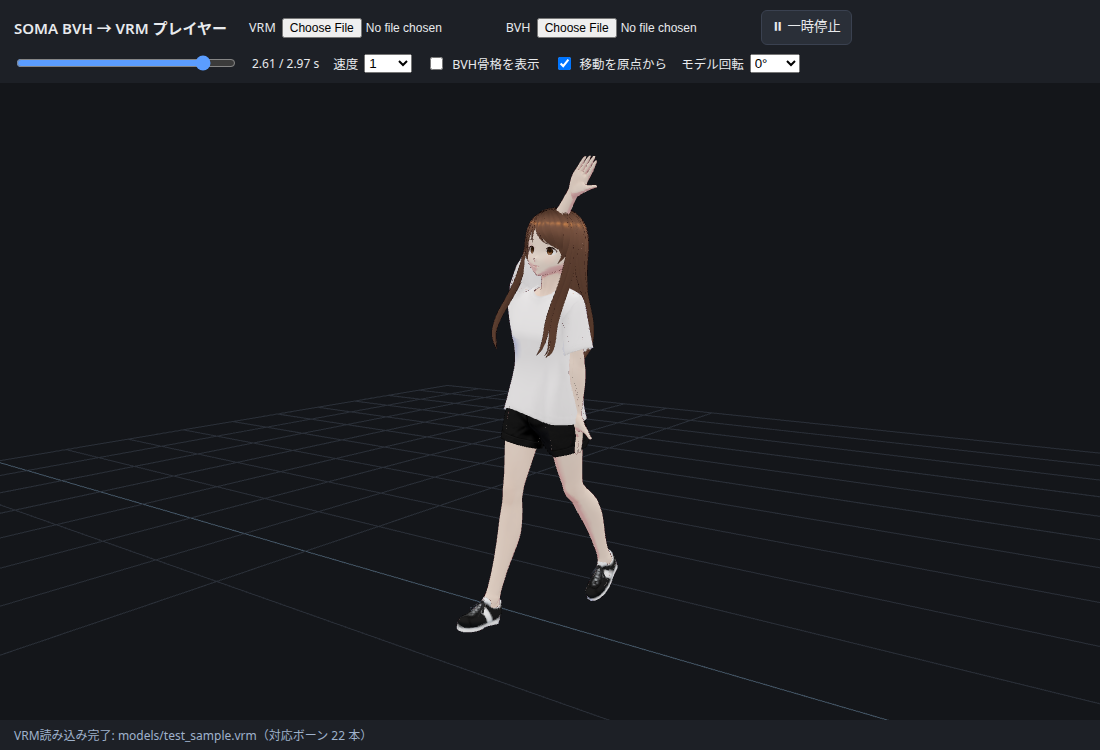
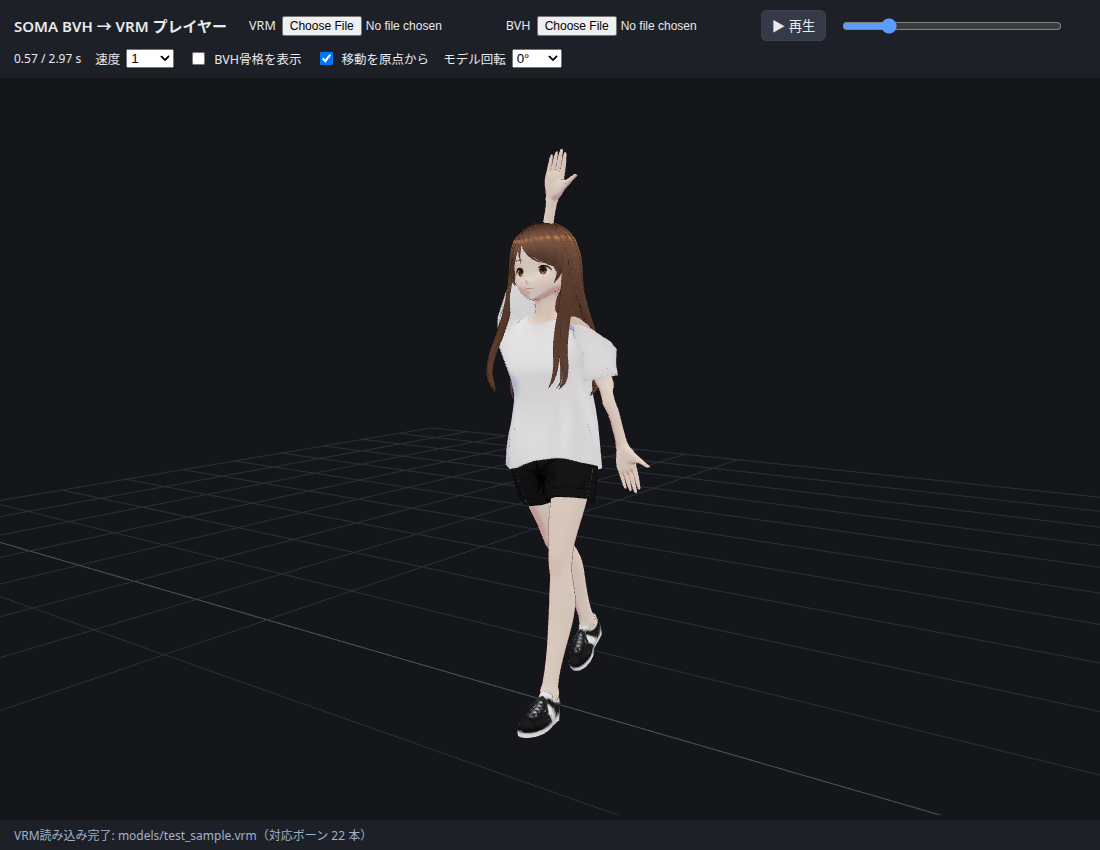
Fix backwards-bending elbows: bend-plane frames + sample fix
Two causes for the raised arm looking wrong:
1. The bundled sample itself folded the waving forearm over the head
   (forearm z sign): with the upper arm at -110 deg the forearm needs
   a positive z to open upward. Fixed in tools/make_sample_wave.py
   and regenerated motion/sample_wave.bvh.
2. Limb twist came from body axes, whose secondary axis flips as a
   bone passes the switch threshold. Limb frames now use the bend
   plane (hinge axis) of the bone chain, with an anatomical virtual
   bend when the chain is straight, applied identically on the BVH
   side and the VRM rest rig. Verified A/B at the same frames with
   the pixiv sample VRM; walk retarget unchanged.

diff --git a/app.js b/app.js
@@ -13,8 +13,9 @@
 // This transfers the absolute pose (e.g. arms hanging down while walking),
 // unlike bind-pose delta methods: the MotionBricks bind pose is a straight
 // stick along +X, so deltas from bind contain a spurious lying->standing
-// rotation. Known limitation: twist around each bone's own axis is only
-// approximated, because the frame comes from body-level axes.
+// rotation. For hinge chains (arms / legs) the frame's twist comes from the
+// actual bend plane of the two bones, so elbows and knees bend the right
+// way; other joints still derive twist from body-level axes (approximate).
 import * as THREE from 'three';
 import { OrbitControls } from 'three/addons/controls/OrbitControls.js';
 import { GLTFLoader } from 'three/addons/loaders/GLTFLoader.js';
@@ -52,6 +53,7 @@ addEventListener('resize', resize);
 
 // ---------------------------------------------------------------- BVH motion
 let bvh = null, bvhFirst = null;
+let parentNameOf = {};
 const skelGroup = new THREE.Group();
 scene.add(skelGroup);
 let skelLines = null;
@@ -59,6 +61,10 @@ let skelLines = null;
 async function loadBVHText(text, label) {
   bvh = parseBVH(text);
   bvhFirst = sampleWorld(bvh, 0);
+  parentNameOf = {};
+  bvh.joints.forEach((j) => {
+    parentNameOf[j.name] = j.parent >= 0 ? bvh.joints[j.parent].name : null;
+  });
   buildSkeletonLines();
   const seek = document.getElementById('seek');
   seek.max = bvh.frameCount - 1;
@@ -101,9 +107,26 @@ function bodyAxes(getPos) {
   return { left, forward };
 }
 
-// Quaternion of the geometric frame: Y = bone dir, X = orthogonal secondary.
-function geoQuat(jointPos, boneDirVec, axes) {
+// Quaternion of the geometric frame: Y = bone dir, Z = frame normal.
+//
+// For limb joints the normal comes from the chain's bend plane (see
+// bendNormal): it is the hinge axis of the elbow / knee / ankle, so the
+// transferred twist follows which way the hinge actually faces. Deriving
+// twist from body axes instead made raised arms twist the wrong way
+// (the secondary axis flips when a bone passes the switch threshold).
+// Other joints (spine, head, hands) keep the body-axis construction.
+function geoQuat(jointPos, boneDirVec, axes, planeN = null) {
   const y = boneDirVec.clone().normalize();
+  if (planeN) {
+    const z = planeN.clone().addScaledVector(y, -planeN.dot(y));
+    if (z.lengthSq() > 1e-6) {
+      z.normalize();
+      const x = new THREE.Vector3().crossVectors(y, z);
+      const zz = new THREE.Vector3().crossVectors(x, y);
+      const m = new THREE.Matrix4().makeBasis(x, y, zz);
+      return new THREE.Quaternion().setFromRotationMatrix(m);
+    }
+  }
   const s = Math.abs(y.dot(axes.left)) < 0.8 ? axes.left : axes.forward;
   const x = s.clone().addScaledVector(y, -s.dot(y)).normalize();
   const z = new THREE.Vector3().crossVectors(x, y);
@@ -111,32 +134,74 @@ function geoQuat(jointPos, boneDirVec, axes) {
   return new THREE.Quaternion().setFromRotationMatrix(m);
 }
 
+// Plane normal (hinge axis) from two bone directions. When the chain is
+// nearly straight the plane is undefined, so fall back to a virtual bend:
+// the direction the next bone would point if the hinge bent anatomically
+// (forearm bends towards body-forward, shin towards body-backward),
+// passed as virtSign * axes.forward. Source and target use the same rule,
+// so the frames stay consistent even at a straight rest pose (T-pose).
+function bendNormal(d1, d2, ownDir, axes, virtSign) {
+  const n = new THREE.Vector3().crossVectors(
+    d1.clone().normalize(), d2.clone().normalize());
+  if (n.length() > 0.05) return n;
+  if (virtSign) {
+    const virt = axes.forward.clone().multiplyScalar(virtSign);
+    const nv = new THREE.Vector3().crossVectors(ownDir.clone().normalize(), virt);
+    if (nv.length() > 0.05) return nv;
+  }
+  return null;
+}
+
 // ------------------------------------------------------------------------ VRM
-// [SOMA BVH joint, VRM humanoid bone, primary child BVH joint (null = incoming dir)]
+// [SOMA BVH joint, VRM humanoid bone, primary child BVH joint (null =
+// incoming dir), grandchild BVH joint, bend mode, virtual-bend sign]
+// bend mode: 'next' = plane of (own bone, next bone) for shoulder/hip and
+// upper arm/leg; 'in' = plane of (incoming bone, own bone) for the hinge
+// joints themselves (forearm, shin, foot); null = body-axis frame.
 const MAP = [
-  ['Hips', 'hips', 'Spine1'],
-  ['Spine1', 'spine', 'Spine2'],
-  ['Spine2', 'chest', 'Chest'],
-  ['Chest', 'upperChest', 'Neck1'],
-  ['Neck1', 'neck', 'Neck2'],
-  ['Head', 'head', null],
-  ['LeftShoulder', 'leftShoulder', 'LeftArm'],
-  ['LeftArm', 'leftUpperArm', 'LeftForeArm'],
-  ['LeftForeArm', 'leftLowerArm', 'LeftHand'],
-  ['LeftHand', 'leftHand', null],
-  ['RightShoulder', 'rightShoulder', 'RightArm'],
-  ['RightArm', 'rightUpperArm', 'RightForeArm'],
-  ['RightForeArm', 'rightLowerArm', 'RightHand'],
-  ['RightHand', 'rightHand', null],
-  ['LeftLeg', 'leftUpperLeg', 'LeftShin'],
-  ['LeftShin', 'leftLowerLeg', 'LeftFoot'],
-  ['LeftFoot', 'leftFoot', 'LeftToeBase'],
-  ['LeftToeBase', 'leftToes', null],
-  ['RightLeg', 'rightUpperLeg', 'RightShin'],
-  ['RightShin', 'rightLowerLeg', 'RightFoot'],
-  ['RightFoot', 'rightFoot', 'RightToeBase'],
-  ['RightToeBase', 'rightToes', null],
+  ['Hips', 'hips', 'Spine1', null, null, 0],
+  ['Spine1', 'spine', 'Spine2', null, null, 0],
+  ['Spine2', 'chest', 'Chest', null, null, 0],
+  ['Chest', 'upperChest', 'Neck1', null, null, 0],
+  ['Neck1', 'neck', 'Neck2', null, null, 0],
+  ['Head', 'head', null, null, null, 0],
+  ['LeftShoulder', 'leftShoulder', 'LeftArm', 'LeftForeArm', 'next', 1],
+  ['LeftArm', 'leftUpperArm', 'LeftForeArm', 'LeftHand', 'next', 1],
+  ['LeftForeArm', 'leftLowerArm', 'LeftHand', null, 'in', 1],
+  ['LeftHand', 'leftHand', null, null, null, 0],
+  ['RightShoulder', 'rightShoulder', 'RightArm', 'RightForeArm', 'next', 1],
+  ['RightArm', 'rightUpperArm', 'RightForeArm', 'RightHand', 'next', 1],
+  ['RightForeArm', 'rightLowerArm', 'RightHand', null, 'in', 1],
+  ['RightHand', 'rightHand', null, null, null, 0],
+  ['LeftLeg', 'leftUpperLeg', 'LeftShin', 'LeftFoot', 'next', -1],
+  ['LeftShin', 'leftLowerLeg', 'LeftFoot', 'LeftToeBase', 'in', -1],
+  ['LeftFoot', 'leftFoot', 'LeftToeBase', null, 'in', 1],
+  ['LeftToeBase', 'leftToes', null, null, null, 0],
+  ['RightLeg', 'rightUpperLeg', 'RightShin', 'RightFoot', 'next', -1],
+  ['RightShin', 'rightLowerLeg', 'RightFoot', 'RightToeBase', 'in', -1],
+  ['RightFoot', 'rightFoot', 'RightToeBase', null, 'in', 1],
+  ['RightToeBase', 'rightToes', null, null, null, 0],
 ];
+// humanoid bone -> grandchild humanoid bone (bend plane), when defined
+const DST_NEXT = {
+  leftShoulder: 'leftLowerArm', leftUpperArm: 'leftHand',
+  rightShoulder: 'rightLowerArm', rightUpperArm: 'rightHand',
+  leftUpperLeg: 'leftFoot', leftLowerLeg: 'leftToes',
+  rightUpperLeg: 'rightFoot', rightLowerLeg: 'rightToes',
+};
+// humanoid hinge bone -> its parent humanoid bone (incoming direction)
+const DST_PARENT_BONE = {
+  leftLowerArm: 'leftUpperArm', rightLowerArm: 'rightUpperArm',
+  leftLowerLeg: 'leftUpperLeg', rightLowerLeg: 'rightUpperLeg',
+  leftFoot: 'leftLowerLeg', rightFoot: 'rightLowerLeg',
+};
+// humanoid bone -> [bend mode, virtual-bend sign] (mirrors MAP)
+const DST_BEND = {
+  leftShoulder: ['next', 1], leftUpperArm: ['next', 1], leftLowerArm: ['in', 1],
+  rightShoulder: ['next', 1], rightUpperArm: ['next', 1], rightLowerArm: ['in', 1],
+  leftUpperLeg: ['next', -1], leftLowerLeg: ['in', -1], leftFoot: ['in', 1],
+  rightUpperLeg: ['next', -1], rightLowerLeg: ['in', -1], rightFoot: ['in', 1],
+};
 // humanoid bone -> its primary child humanoid bone (null = incoming dir)
 const DST_CHILD = {
   hips: 'spine', spine: 'chest', chest: 'upperChest', upperChest: 'neck',
@@ -195,7 +260,7 @@ async function loadVRM(url, label) {
   }[k].clone()));
 
   rig = [];
-  for (const [srcName, boneName, srcChild] of MAP) {
+  for (const [srcName, boneName, srcChild, srcNext, bendMode, virtSign] of MAP) {
     const node = dstNode[boneName];
     if (!node) continue;
     const childName = childOf(boneName);
@@ -204,7 +269,20 @@ async function loadVRM(url, label) {
     else {
       boneDir = null; // incoming direction, resolved below from the parent node
     }
-    rig.push({ node, boneName, srcName, srcChild, childName, boneDir });
+    const nextName = DST_NEXT[boneName];
+    let nextDir = null;
+    if (nextName && childName && dstNode[nextName]) {
+      nextDir = dstPos[nextName].clone().sub(dstPos[childName]);
+    }
+    const pName = DST_PARENT_BONE[boneName];
+    let incomingDir = null;
+    if (pName && dstNode[pName]) {
+      incomingDir = dstPos[boneName].clone().sub(dstPos[pName]);
+    }
+    rig.push({
+      node, boneName, srcName, srcChild, srcNext, bendMode, virtSign,
+      childName, boneDir, nextDir, incomingDir,
+    });
   }
   // resolve incoming directions and rest frames
   const posOf = (boneName) => dstPos[boneName];
@@ -220,7 +298,13 @@ async function loadVRM(url, label) {
       r.boneDir = posOf(r.boneName).clone().sub(parentPos || new THREE.Vector3());
     }
     r.restQ = r.node.getWorldQuaternion(new THREE.Quaternion());
-    r.frameQ = geoQuat(posOf(r.boneName), r.boneDir, axes);
+    let frameN = null;
+    if (r.bendMode === 'next' && r.nextDir) {
+      frameN = bendNormal(r.boneDir, r.nextDir, r.boneDir, axes, r.virtSign);
+    } else if (r.bendMode === 'in' && r.incomingDir) {
+      frameN = bendNormal(r.incomingDir, r.boneDir, r.boneDir, axes, r.virtSign);
+    }
+    r.frameQ = geoQuat(posOf(r.boneName), r.boneDir, axes, frameN);
   }
   rig.hipsNode = dstNode.hips;
   rig.hipsRestPos = dstNode.hips.position.clone();
@@ -240,7 +324,18 @@ function applyPose(world) {
     let boneDir;
     if (r.srcChild && world[r.srcChild]) boneDir = V3(world[r.srcChild].pos).sub(jp);
     else boneDir = jp.clone().sub(V3(world[SRC_PARENT[r.srcName]].pos));
-    const aSrc = geoQuat(jp, boneDir, srcAxes);
+    let planeN = null;
+    if (r.bendMode === 'next' && r.srcNext && r.srcChild && world[r.srcNext] && world[r.srcChild]) {
+      const nd = V3(world[r.srcNext].pos).sub(V3(world[r.srcChild].pos));
+      planeN = bendNormal(boneDir, nd, boneDir, srcAxes, r.virtSign);
+    } else if (r.bendMode === 'in') {
+      const pn = parentNameOf[r.srcName];
+      if (pn && world[pn]) {
+        const incoming = jp.clone().sub(V3(world[pn].pos));
+        planeN = bendNormal(incoming, boneDir, boneDir, srcAxes, r.virtSign);
+      }
+    }
+    const aSrc = geoQuat(jp, boneDir, srcAxes, planeN);
     const targetWorldQ = aSrc.multiply(r.frameQ.clone().invert()).multiply(r.restQ);
     let parent = r.node.parent, parentQ = null;
     while (parent) {

diff --git a/tools/make_sample_wave.py b/tools/make_sample_wave.py
@@ -69,9 +69,13 @@ def pose(f):
     r["LeftArm"] = [-75 + 6 * s, 0, -8 * s]
     r["LeftForeArm"] = [-8, 0, 0]
     # right arm raised, waving (forearm oscillates fast)
+    # NOTE the sign: with the upper arm at about -110 deg, the forearm
+    # needs a *positive* z to open upward (hand above the elbow, waving).
+    # A negative z folds the forearm over the head, which reads as an
+    # elbow bending backwards.
     wave = math.sin(4 * t)
     r["RightArm"] = [-110 + 7 * wave, 0, 0]
-    r["RightForeArm"] = [-18 + 14 * wave, 0, 0]
+    r["RightForeArm"] = [24 + 13 * wave, 0, 0]
     hips_pos = (2.0 * s, 97.2 + 1.4 * abs(math.sin(t)), 0.0)
     r["Hips"] = [2.5 * s, 5 * s, 0]
     return r, hips_pos

diff --git a/README.md b/README.md
@@ -54,9 +54,13 @@ MotionBricks の同梱サンプルモーション（BVH/CSV）は
   MotionBricks 形式（位置チャンネルが絶対値）では Hips の高さが二重になるため自作した。
   Node で単体テスト可能（Python 版 FK とフレーム単位で一致することを確認済み）。
 - リターゲット … 「幾何フレーム」方式。各関節について、関節位置の幾何から
-  その場のフレーム（Y = 骨の向き、X = 体の左右方向から直交化）を毎フレーム作り、
-  VRM の正規化ヒューマノイドリグ（three-vrm）の静止姿勢で同じように作ったフレームと
-  対応づけて回転を転送する。腕が「下がった状態で振れる」のような絶対姿勢が転送できる。
+  その場のフレーム（Y = 骨の向き）を毎フレーム作り、VRM の正規化ヒューマノイド
+  リグ（three-vrm）の静止姿勢で同じように作ったフレームと対応づけて回転を転送する。
+  腕が「下がった状態で振れる」のような絶対姿勢が転送できる。
+  腕・脚の関節では、フレームのひねりを「2本の骨が張る平面（曲げ平面）の法線」から
+  決める。肘・膝のヒンジの向きに追従するので、腕を頭上に上げても肘が逆に
+  曲がって見えない。骨がほぼ真っ直ぐなときは、解剖学的な曲げ方向（前腕は前方、
+  脛は後方）で代用し、ソース側とターゲット側で同じ規則を使う。
   ※ モーション側のバインドポーズが寝た姿勢のような骨格（MotionBricks BVH 等）でも、
   幾何からフレームを作るので「横たわり→起立」の回転が混入しない。
 - ルート（Hips）の移動は、BVH の先頭フレームからの移動量を転送する。
@@ -65,7 +69,7 @@ MotionBricks の同梱サンプルモーション（BVH/CSV）は
 
 ## 既知の制限
 
-- 各骨の軸まわりのツイスト（前腕のひねり等）は、フレームを体の軸から作るため近似になる。
+- 体幹・頭・手のツイストは体の軸から作る近似のまま（腕・脚は曲げ平面ベース）。
 - ループの継ぎ目が合っていない BVH では、再生の繋ぎ目で少し飛ぶことがある。
 - プレビュー画像 `preview.png` は動作確認用で、モデルは pixiv の
   three-vrm 公式サンプル（VRM1_Constraint_Twist_Sample）。モデル自体は同梱していない。
